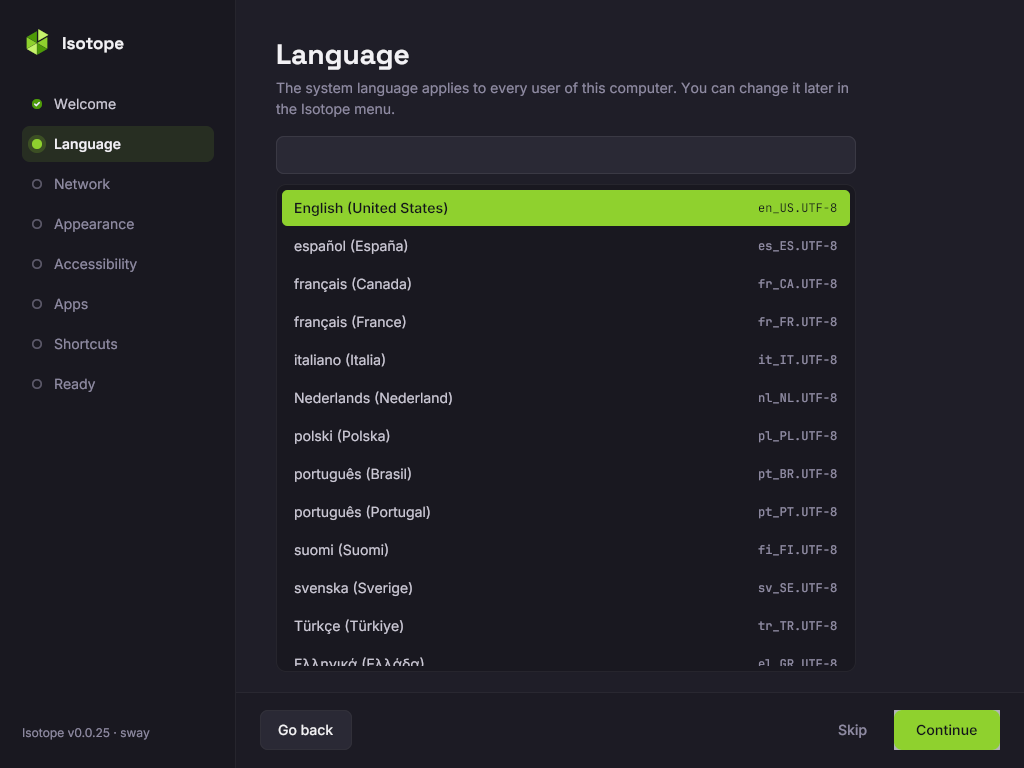
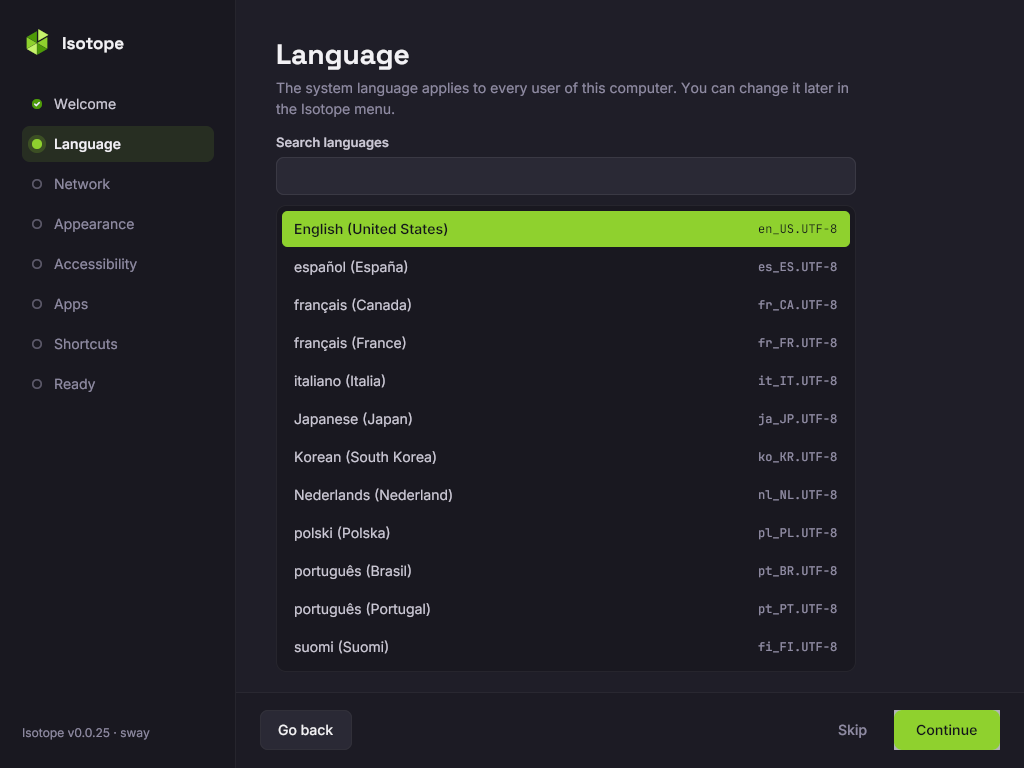
fix(welcome): draw non-Latin language names, push LANG to user services
guikit loads no system fonts, so names in Arabic, Hebrew, CJK, Indic and
other scripts drew as boxes. Show the English name when the native one
is outside Inter's coverage, and let the search match it.

sway and i3 pushed only display variables to the systemd and D-Bus
activation environment, so portals and the keyring kept the old LANG.
Add LANG to both dbus-update-activation-environment lines.

Also: label the search field, clear the pick when a search matches
nothing so Continue cannot apply a hidden locale, and fix two comments.

Changed region(s): [[0.25, 0.25, 0.8438, 0.875], [0.2812, 0.1562, 0.375, 0.2188]]

diff --git a/welcome/locale.go b/welcome/locale.go
@@ -60,14 +60,46 @@ func parseLocales(out string) []Locale {
 	return list
 }
 
+// covered says every rune of s is in the interface font's coverage (Inter:
+// Latin, Greek and Cyrillic up to U+052F, Latin Extended Additional, general
+// punctuation). guikit loads no system fonts, so a name in another script
+// would draw as boxes; the page shows the English name instead.
+func covered(s string) bool {
+	for _, r := range s {
+		switch {
+		case r <= 0x052F, r >= 0x1E00 && r <= 0x1EFF, r >= 0x2000 && r <= 0x206F:
+		default:
+			return false
+		}
+	}
+	return true
+}
+
+// englishName is the English name of a locale code whose own name is shown
+// in another form, "" when there is none. The search matches it, so
+// "chinese" finds zh_CN even where the page shows the native name.
+func englishName(code string) string {
+	base, _, _ := strings.Cut(code, ".")
+	if n, ok := englishNames[base]; ok {
+		return n
+	}
+	return ""
+}
+
 // localeName is the name of a locale without its encoding ("de_DE"): the
 // table's, else the language's with the territory code, else the code.
 func localeName(base string) string {
 	if n, ok := localeNames[base]; ok {
+		if !covered(n) {
+			return englishNames[base]
+		}
 		return n
 	}
 	lang, terr, hasTerr := strings.Cut(base, "_")
 	if n, ok := languageNames[lang]; ok {
+		if !covered(n) {
+			n = englishLanguages[lang]
+		}
 		if hasTerr {
 			return n + " (" + terr + ")"
 		}
@@ -246,6 +278,26 @@ var localeNames = map[string]string{
 	"zh_HK": "中文 (中国香港特别行政区)",
 	"zh_SG": "中文 (新加坡)",
 	"zh_TW": "中文 (台灣)",
+}
+
+// englishNames are the English names of the localeNames entries that are not
+// covered by the interface font (see covered). A test keeps the two in step.
+var englishNames = map[string]string{
+	"ar_AE": "Arabic (United Arab Emirates)", "ar_EG": "Arabic (Egypt)",
+	"ar_SA": "Arabic (Saudi Arabia)", "bn_BD": "Bangla (Bangladesh)",
+	"bn_IN": "Bangla (India)", "fa_IR": "Persian (Iran)", "he_IL": "Hebrew (Israel)",
+	"hi_IN": "Hindi (India)", "hy_AM": "Armenian (Armenia)", "ja_JP": "Japanese (Japan)",
+	"ka_GE": "Georgian (Georgia)", "ko_KR": "Korean (South Korea)", "ta_IN": "Tamil (India)",
+	"th_TH": "Thai (Thailand)", "ur_PK": "Urdu (Pakistan)", "zh_CN": "Chinese (China)",
+	"zh_HK": "Chinese (Hong Kong)", "zh_SG": "Chinese (Singapore)", "zh_TW": "Chinese (Taiwan)",
+}
+
+// englishLanguages are the English names of the languageNames entries that
+// are not covered by the interface font.
+var englishLanguages = map[string]string{
+	"ar": "Arabic", "bn": "Bangla", "fa": "Persian", "he": "Hebrew", "hi": "Hindi",
+	"hy": "Armenian", "ja": "Japanese", "ka": "Georgian", "ko": "Korean", "ta": "Tamil",
+	"th": "Thai", "ur": "Urdu", "zh": "Chinese",
 }
 
 // languageNames are the languages' own names, for a territory the table

diff --git a/welcome/page_language.go b/welcome/page_language.go
@@ -51,7 +51,8 @@ type languagePage struct {
 	retry  widget.Clickable
 }
 
-// load runs `locale -a`. It blocks; the page runs it in the background.
+// load runs `locale -a`. It blocks, on purpose: it is one quick command, and
+// the page would draw an empty list for a frame otherwise.
 func (p *languagePage) load() {
 	var list []Locale
 	var err error
@@ -95,7 +96,8 @@ func (p *languagePage) filter() {
 	p.query = p.search.Editor.Text()
 	p.shown = p.shown[:0]
 	for i, l := range p.locales {
-		if q == "" || strings.Contains(strings.ToLower(l.Name), q) || strings.Contains(strings.ToLower(l.Code), q) {
+		if q == "" || strings.Contains(strings.ToLower(l.Name), q) || strings.Contains(strings.ToLower(l.Code), q) ||
+			strings.Contains(strings.ToLower(englishName(l.Code)), q) {
 			p.shown = append(p.shown, i)
 		}
 	}
@@ -136,13 +138,7 @@ func (p *languagePage) Update(gtx layout.Context) {
 		return
 	}
 	submitted := p.search.Submitted(gtx)
-	if p.search.Editor.Text() != p.query {
-		p.filter()
-		if len(p.shown) > 0 {
-			p.sel = p.shown[0]
-		}
-		p.list.Position.First, p.list.Position.Offset = 0, 0
-	}
+	p.refilter()
 	for {
 		down, ok := guikit.ArrowKey(gtx, &p.search.Editor)
 		if !ok {
@@ -158,6 +154,21 @@ func (p *languagePage) Update(gtx layout.Context) {
 	if submitted && p.sel >= 0 {
 		p.Continue()
 	}
+}
+
+// refilter filters again when the search text changed. The pick is the first
+// match; with no match there is no pick, so Continue cannot apply a locale
+// the list does not show.
+func (p *languagePage) refilter() {
+	if p.search.Editor.Text() == p.query {
+		return
+	}
+	p.filter()
+	p.sel = -1
+	if len(p.shown) > 0 {
+		p.sel = p.shown[0]
+	}
+	p.list.Position.First, p.list.Position.Offset = 0, 0
 }
 
 // pick is the locale chosen in the list, if it differs from the system's.
@@ -282,9 +293,11 @@ func (p *languagePage) Body(gtx layout.Context) layout.Dimensions {
 	return guikit.Pad(gtx, func(gtx layout.Context) layout.Dimensions {
 		kids := []layout.FlexChild{
 			layout.Rigid(u.Heading("Language", "The system language applies to every user of this computer. You can change it later in the Isotope menu.")),
-			guikit.VGap(18),
+			guikit.VGap(16),
 			layout.Rigid(col(func(gtx layout.Context) layout.Dimensions {
-				return u.Input(gtx, p.search, guikit.StBody, 38, "", nil)
+				return u.Labelled(gtx, "Search languages", nil, "", func(gtx layout.Context) layout.Dimensions {
+					return u.Input(gtx, p.search, guikit.StBody, 38, "", nil)
+				})
 			})),
 			guikit.VGap(10),
 		}

diff --git a/welcome/page_language_test.go b/welcome/page_language_test.go
@@ -161,6 +161,36 @@ func TestLanguageUnchangedContinueIsSkip(t *testing.T) {
 	}
 }
 
+// A search that matches nothing clears the pick, so Continue cannot apply a
+// locale that is not on the screen.
+func TestLanguageNoMatchClearsThePick(t *testing.T) {
+	u, _ := newRecorded(NewFlow(Sway), Sway)
+	s := &fakeSettings{}
+	p := languageAt(u, s, true, "en_US.UTF-8")
+	pickCode(t, p, "de_DE.UTF-8")
+	p.search.Editor.SetText("zzzz")
+	p.refilter()
+	if len(p.shown) != 0 || p.sel != -1 {
+		t.Fatalf("shown %v, sel %d", p.shown, p.sel)
+	}
+	p.Continue()
+	p.wait()
+	if len(s.calls()) != 0 {
+		t.Fatalf("applied %v", s.calls())
+	}
+}
+
+// The search also matches the English name, for locales shown in it.
+func TestLanguageSearchMatchesTheEnglishName(t *testing.T) {
+	u, _ := newRecorded(NewFlow(Sway), Sway)
+	p := languageAt(u, &fakeSettings{}, true, "en_US.UTF-8")
+	p.search.Editor.SetText("chinese")
+	p.refilter()
+	if len(p.shown) != 1 || p.locales[p.shown[0]].Code != "zh_CN.UTF-8" {
+		t.Fatalf("shown %v", p.shown)
+	}
+}
+
 func TestHasGroup(t *testing.T) {
 	if !hasGroup([]string{"1000", "27"}, "27") || hasGroup([]string{"1000"}, "27") {
 		t.Fatal("hasGroup")

diff --git a/welcome/locale_test.go b/welcome/locale_test.go
@@ -47,6 +47,36 @@ func TestLocalesFallbackNames(t *testing.T) {
 	}
 }
 
+// Every name the page can show is drawable: the table's own name passes the
+// font coverage check, or the entry has an English name that does.
+func TestLocaleNamesAreDrawable(t *testing.T) {
+	for code, n := range localeNames {
+		if covered(n) {
+			continue
+		}
+		if e := englishNames[code]; e == "" || !covered(e) {
+			t.Errorf("%s: %q is not drawable and has no English name", code, n)
+		}
+	}
+	for lang, n := range languageNames {
+		if covered(n) {
+			continue
+		}
+		if e := englishLanguages[lang]; e == "" || !covered(e) {
+			t.Errorf("%s: %q is not drawable and has no English name", lang, n)
+		}
+	}
+	if got := localeName("zh_CN"); got != "Chinese (China)" {
+		t.Errorf("zh_CN = %q", got)
+	}
+	if got := localeName("ja_XX"); got != "Japanese (XX)" {
+		t.Errorf("ja_XX = %q", got)
+	}
+	if got := LocaleName("de_DE.UTF-8"); got != "Deutsch (Deutschland)" {
+		t.Errorf("de_DE = %q", got)
+	}
+}
+
 func TestLocalesRunnerError(t *testing.T) {
 	r := &fakeRunner{fail: []string{"locale"}}
 	if _, err := Locales(r); err == nil {

diff --git a/AGENTS.md b/AGENTS.md
@@ -74,7 +74,7 @@ The baseline:
 | Clipboard history on Super+Ctrl+V | `isotope-clipboard`, also in the Isotope menu: the last 200 copies, kept in memory for the session, without the copies a password manager marks `x-kde-passwordManagerHint`. cliphist fed by `wl-paste --watch` on sway and COSMIC (cosmic-comp offers data-control to unsandboxed clients, no setting), clipnotify + xsel on i3 (text only), Noctalia's clipboard panel on niri. Super+V stays split (sway, i3) and float (niri). Not on agent: an AI-driven appliance must not keep the secrets it copies; Dockerfile.agent removes it |
 | Bluetooth menu | pair, connect, disconnect, forget, power. `isotope-bluetooth-menu` (bluetoothctl through `isotope-pick`) on sway and i3, Super+Shift+B and the waybar module; the Noctalia control center and COSMIC's Bluetooth applet |
 | Graphical installer | `isotope-install-gui` (`install-gui/`, Gio over `install-ui/core`, so the same questions, checks, cloud-config and install as the text one) in `cage`, both built in the Dockerfile (`install-gui-build`, `cage` with wlroots linked in) and copied into `desktop-default`, so the four variants have it; i3 gets the Wayland libraries and a Wayland-capable `mesa-x11` for it. `isotope-install-ui` starts it unless the install is unattended or the kernel command line has `isotope.installer=text` (the live menu's "isotope (text installer)" entry), and falls back to the text installer when cage exits before the first frame. A new keyboard layout restarts cage (state in `/run/isotope-install/state.json`, never a secret). Its look (palette, fonts, widgets, the window with the step list) is `guikit/`, a module shared with the other graphical tools; a change there changes them all. Screenshot tests in `install-gui/testdata/`. See `docs/superpowers/specs/2026-11-17-graphical-installer-design.md`. Not on the server (text installer only) and not on agent: Dockerfile.agent removes cage and the GUI, and the appliance installs unattended with `--progress-only` |
-| Keyboard layout and timezone from the installer | the installer's cloud-config writes `/etc/isotope/keyboard`, `/etc/X11/xorg.conf.d/00-keyboard.conf`, the `KEYMAP` in `/etc/vconsole.conf` and the `/etc/localtime` link in an initramfs stage, so every boot gets them again. sway (`start-desktop`), niri (`niri-session`) and COSMIC (`start-cosmic`, greetd) read the layout as `XKB_DEFAULT_LAYOUT`/`XKB_DEFAULT_VARIANT` from `/etc/profile.d/isotope-keyboard.sh`; i3's XLibre reads the xorg.conf.d file. `systemd-localed` is on the image (`localectl status` works on COSMIC); Isotope does not depend on it, because localed's `/etc/locale.conf` is lost at every boot. The Welcome page's Language step calls `SetLocale` on `isotope-updated` (polkit `io.kairos.isotope-update.settings`: admin only, no Flatpak callers), which writes `/etc/locale.conf` and `/oem/91_isotope_locale.yaml` (an initramfs stage that writes it again each boot); `/etc/profile.d/isotope-locale.sh` exports `LANG` from it for login shells (sway's and i3's `start-desktop` source it too) |
+| Keyboard layout and timezone from the installer | the installer's cloud-config writes `/etc/isotope/keyboard`, `/etc/X11/xorg.conf.d/00-keyboard.conf`, the `KEYMAP` in `/etc/vconsole.conf` and the `/etc/localtime` link in an initramfs stage, so every boot gets them again. sway (`start-desktop`), niri (`niri-session`) and COSMIC (`start-cosmic`, greetd) read the layout as `XKB_DEFAULT_LAYOUT`/`XKB_DEFAULT_VARIANT` from `/etc/profile.d/isotope-keyboard.sh`; i3's XLibre reads the xorg.conf.d file. `systemd-localed` is on the image (`localectl status` works on COSMIC); Isotope does not depend on it, because localed's `/etc/locale.conf` is lost at every boot. The Welcome page's Language step calls `SetLocale` on `isotope-updated` (polkit `io.kairos.isotope-update.settings`: admin only, no Flatpak callers), which writes `/etc/locale.conf` and `/oem/91_isotope_locale.yaml` (an initramfs stage that writes it again each boot); `/etc/profile.d/isotope-locale.sh` exports `LANG` from it for login shells (sway's and i3's `start-desktop` source it too); sway's and i3's portal lines (`dbus-update-activation-environment --systemd ... LANG`) push it to the user's systemd and D-Bus activation environment, which niri and COSMIC already import whole |
 | Saved-password store | gnome-keyring (Secret Service and its portal) on all four variants, so Electron and Chromium Flatpaks do not store secrets in plain text. `pam_gnome_keyring` in ly's and greetd's PAM services unlocks the login keyring with the login password; `gnome-keyring-daemon.socket` is enabled for every user. The agent removes it (autologin, nothing can unlock it) |
 | Night light | a warmer screen (4500 K) from 20:00 to 07:00, at fixed times because Hadron has no location. Super+Alt+N and the Isotope menu's "Night light" run `isotope-night-light toggle`, which keeps the setting in `$XDG_STATE_HOME/isotope/night-light` and restores it at session start: wlsunset on sway, xsct in a one-minute loop on i3, Noctalia's night light on niri (`noctalia msg nightlight-enable`). Not on COSMIC: cosmic-comp has no gamma control protocol and COSMIC Settings has its night light page disabled (epoch 1.11.0). `test/night-light/check-night-light.sh` checks the script |
 | Emoji | Noto Color Emoji (the Dockerfile `emoji` stage; FreeType is built with libpng to load its PNG glyphs) as the last fallback in `60-isotope.conf`. `isotope-emoji` on Super+; and in the Isotope menu: the list `/usr/share/isotope/emoji.txt`, made from Unicode's `emoji-test.txt`, through `isotope-pick`, then wl-copy (sway, niri, COSMIC) or xsel (i3) and a notification. COSMIC's Super+; is added in the Dockerfile. `test/emoji/check-emoji.sh` |
